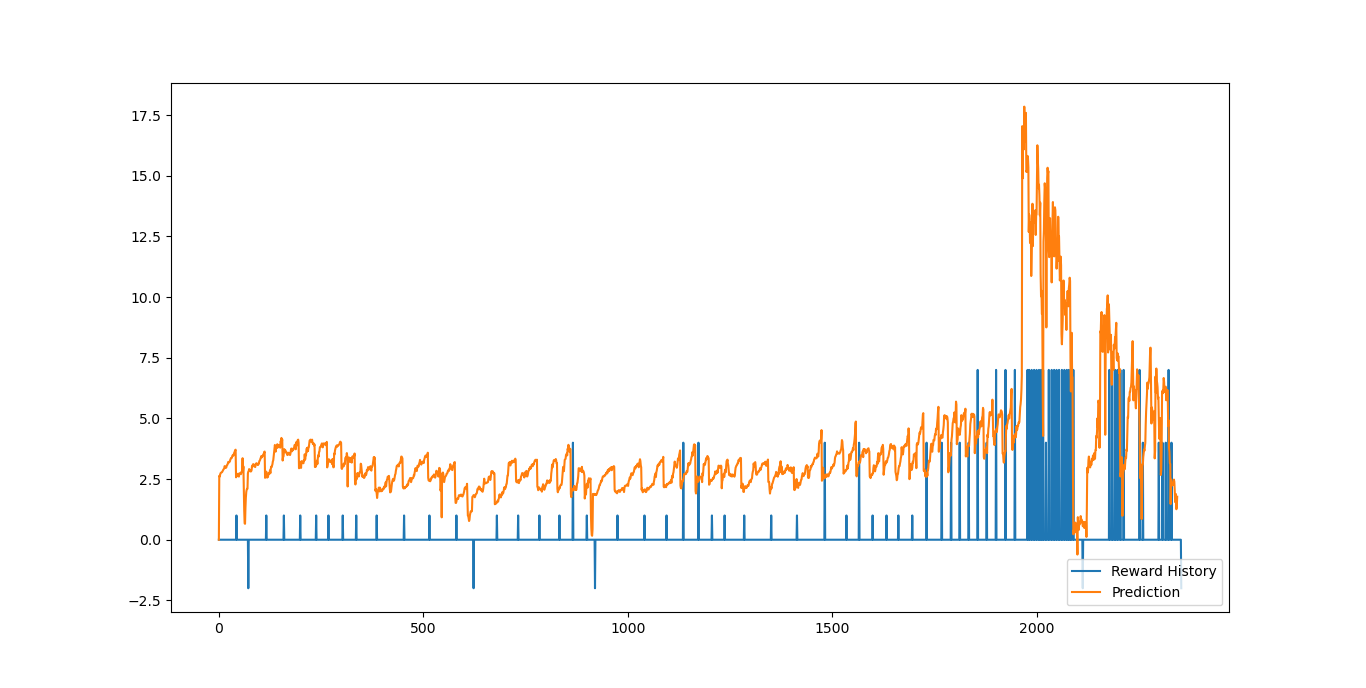
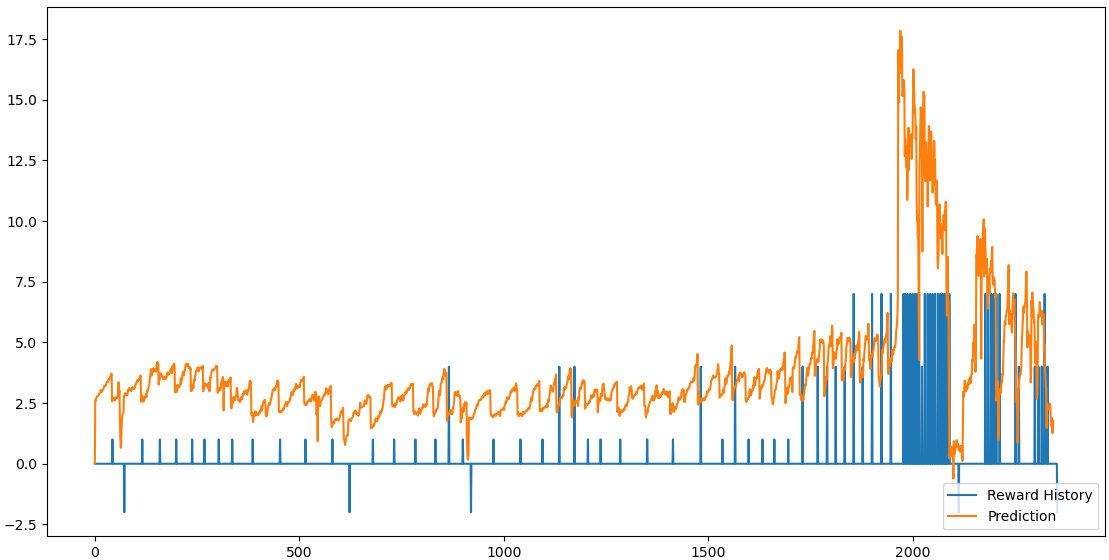
update readme

diff --git a/README.md b/README.md
@@ -1,15 +1,18 @@
 # Deep_Q_learning
 
-Got inspiration from watching this video https://youtu.be/rFwQDDbYTm4 and read the paper (https://arxiv.org/pdf/1312.5602.pdf).
+Learning to play games using just the visual input.
 
-Implemented it from understanding of paper and network is in my own library. https://github.com/ShivamShrirao/dnn_from_scratch
-
-Using OpenAI gym as game environment.
-
-
-
-# Results
+## Results after overnight training on Colab.
 Breakout                        |     Pong
 :------------------------------:|:-------------------------------:
 ![Breakout](/pics/breakout.gif) | ![Pong](/pics/pong.gif)
 [![Breakout Colab](https://colab.research.google.com/assets/colab-badge.svg)](https://colab.research.google.com/github/ShivamShrirao/deep_Q_learning_from_scratch/blob/master/Breakout_Deep_Q_RL.ipynb) | [![Pong Colab](https://colab.research.google.com/assets/colab-badge.svg)](https://colab.research.google.com/github/ShivamShrirao/deep_Q_learning_from_scratch/blob/master/Pong_Deep_Q_RL.ipynb)
+
+The agent has learned the mechanics of the game, formed a few strategies and is able to consistently score good points.
+
+## Actual Reward v/s Q Prediction for breakout
+![RewardVprediction](/pics/Figure_5.png)
+
+Got inspiration from watching this video https://youtu.be/rFwQDDbYTm4 and read the paper (https://arxiv.org/pdf/1312.5602.pdf).
+Implemented it from understanding of paper and network is in my own library. https://github.com/ShivamShrirao/dnn_from_scratch
+Using OpenAI gym as game environment.
